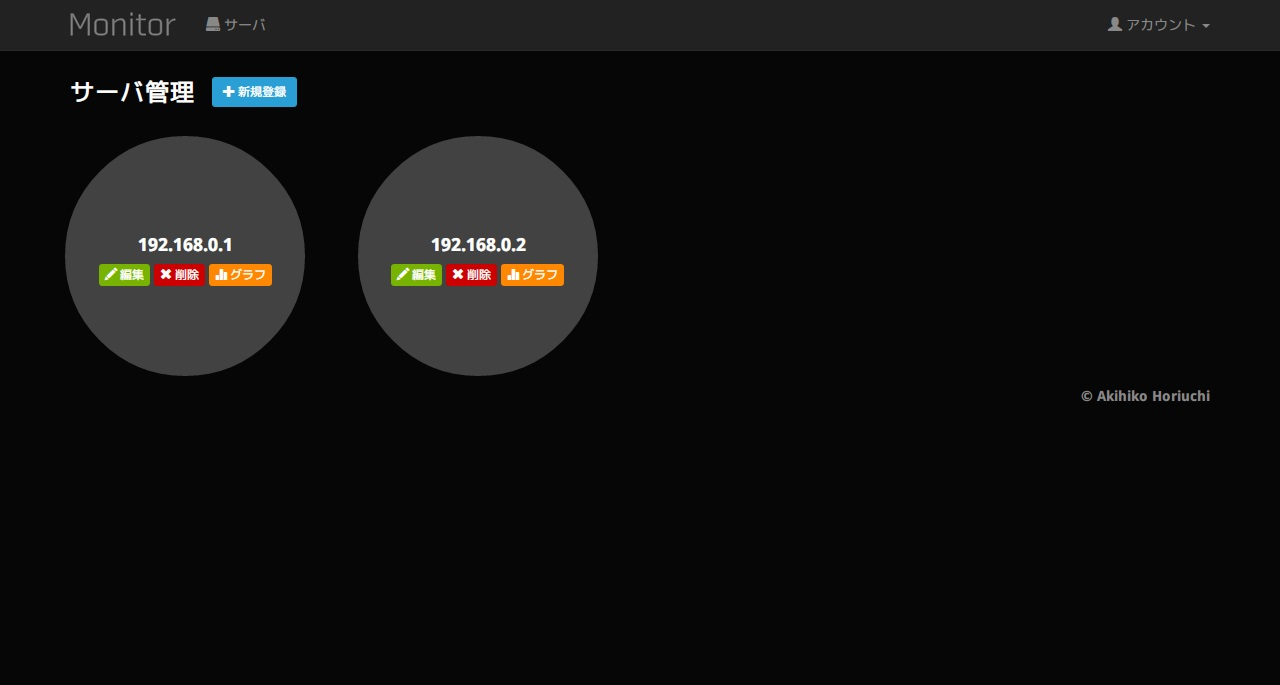
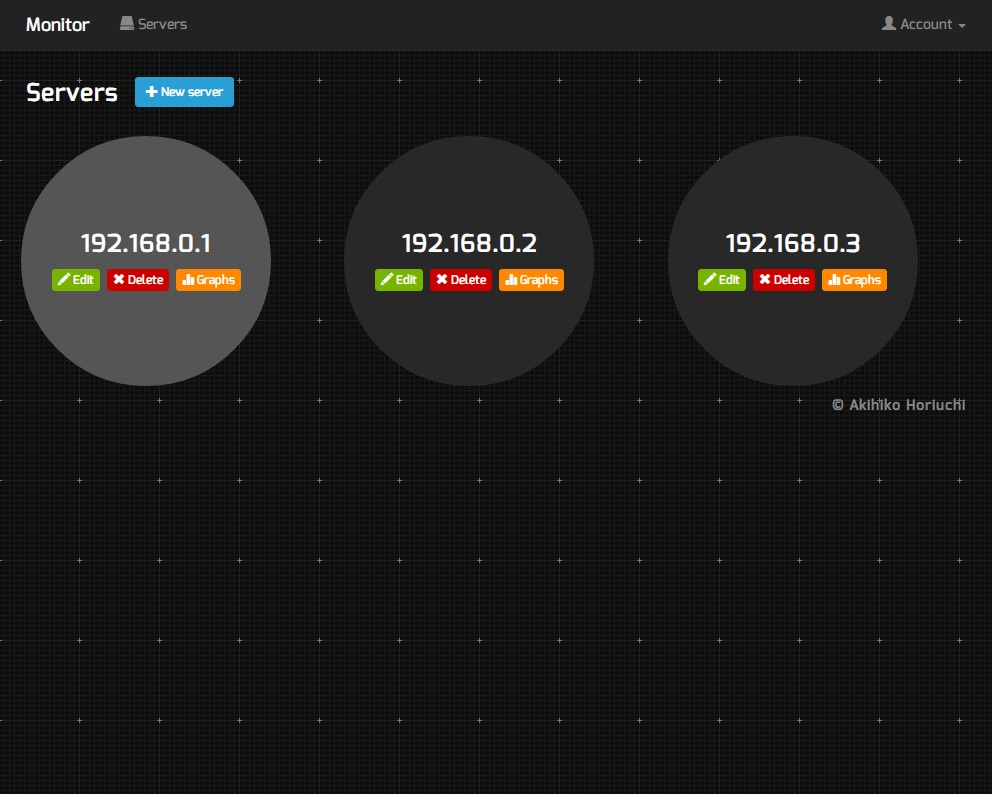
READMEとスクリーンショットを修正

diff --git a/README.md b/README.md
@@ -2,9 +2,9 @@
 
 [![Build Status](https://travis-ci.org/hico-horiuchi/snmp_monitor.svg?branch=master)](https://travis-ci.org/hico-horiuchi/snmp_monitor)
 
-MonitorはSNMPを「見える化」するツールです。
+Monitor is visualization tool for SNMP.
 <br>
-サーバのCPUやメモリの使用率をグラフ化します。
+You can see in the graph, such as CPU usage, memory usage and etc... on the server.
 
 <a href="https://raw.githubusercontent.com/hico-horiuchi/snmp_monitor/master/screenshots/servers_list.jpg">
   <img src="/../master/screenshots/servers_list.jpg" width="320px" height="auto">
